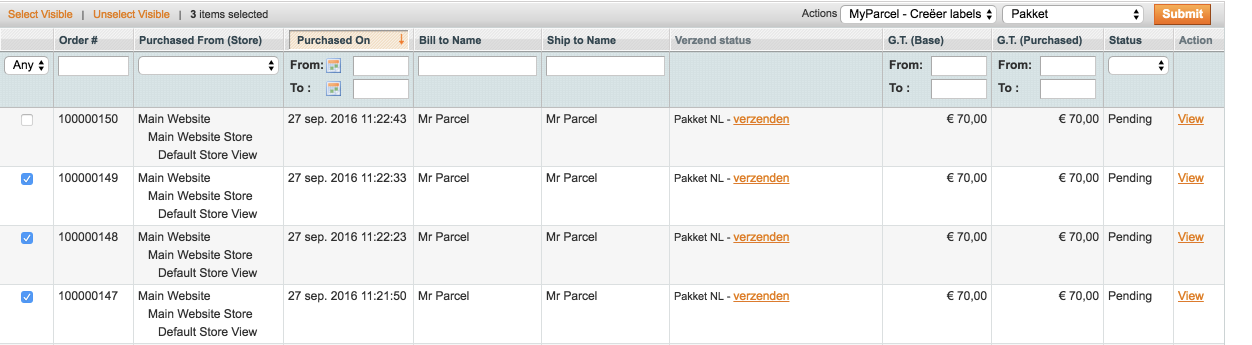
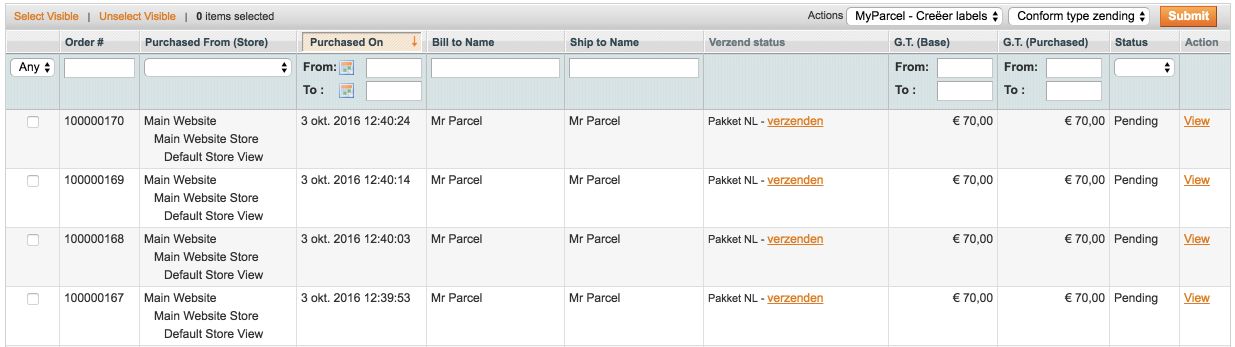
Add print screens, edit tekst

diff --git a/1_7.html b/1_7.html
@@ -22,7 +22,7 @@
         Installatie- gebruikershandleiding
     </h1>
     <h2 class="project-tagline">
-        Magento MyParcel plug-in 1.6.x
+        Magento MyParcel plug-in 1.7.x
     </h2>
     <a target="_blank" class="btn" href="https://github.com/myparcelnl/Magento1">GitHub</a>
     <a target="_blank" class="btn" href="https://github.com/myparcelnl/magento1/releases">Alle updates</a>
@@ -190,7 +190,7 @@
             Onder het kopje 'Versie & Support' kun je zien welke versie jij van de plugin gebruikt.
 
         </p>
-        <img src="media1_7/image001.png">
+        <img src="media1_7/image009.png">
         <p>Verder zie je 2 tabbladen om uit te kiezen. Een tabblad voor de Algemene instellingen en een tabblad voor de checkout instellingen.</p>
 
         <h2 id="2_1">2.1 Algemene instellingen</h2>
@@ -204,7 +204,7 @@
 
         <h2 id="2_2">2.2 Hoofd Instellingen</h2>
             <p> Bij dit kopje kun je alle instellingen voor het gebruiken van de MyParcel Extensie invullen.</p>
-                <img src="media1_7/image003.png">
+                <img src="media1_7/image011.png">
 
         <h3 id="2_2_1">2.2.1 Activeer MyParcel extensie</h3>
         <p>
@@ -308,13 +308,15 @@
 
         <h4>Douane goederen HS code</h4>
         <p>
-            Vul in het veld <span class="nice">Douane goederen HS code</span> de gewenste HS code in.<br>
+            Vul in het veld <span class="nice">Douane goederen HS code</span> de gewenste HS code in.<br><br>
 
             Je kunt de codes vinden op deze link: <a href="http://gebruikstarief.douane.nl" target="_blank">http://gebruikstarief.douane.nl</a><br>
-            Let op: de HS code moet exact vier cijfers zijn.
+            Let op: de HS code moet exact vier cijfers zijn.<br>
+            <br>
 
+            Het is ook mogelijk om per productcategorie een eigen HS code mee te geven. Deze optie kun je invullen onderaan de pagina van een gewenste categorie. Ga naar  <span class="nice">Catalogus -> Beheer categorieën </span>.
         </p>
-
+            <img src="media1_7/image010.png">
         <h2 id="2_4">2.4 Versturingsmethodes configuratie</h2>
         <p>
 
@@ -419,8 +421,7 @@
         <ol>
             <li>Selecteer de zendingen die je wilt exporteren naar MyParcel</li>
             <li>Kies in de actie balk <span class="nice">MyParcel - creëer labels</span></li>
-            <li>Klik vervolgens op de juiste pakket soort en vervolgens
-                op <span class="nice">Verstuur</span>
+            <li>Kies voor je pakkettype (indien dit standaard moet zijn, kies dan voor <span class="nice">conform type zending</span>) en vervolgens kun je klikken op <span class="nice">verstuur</span>
             </li>
             <img src="media1_7/batch1.png">
             <li>Kies voor de juiste printpositie, indien je voor A4 hebt gekozen</li>
@@ -554,44 +555,8 @@
             <li>Klik rechts bovenin op opslaan.</li>
         </ol>
 
-        <h2 id="6_4">6.4 Waarom komt mijn label niet door naar MyParcel met een andere verzendmethode?</h2>
-        <p>
-            Vanaf versie 1.3 van de MyParcel Magento extensie kun je andere verzendmethode aan de MyParcel extensie koppelen. Dit kan handig zijn als je bijvoorbeeld een verzendkosten extensie gebruikt.<br>
-            Dit kun je instellen via <span class="nice">Systeem > Configuratie > MyParcel</span>.
-
-
-        </p>
-
-        <h2 id="6_5">6.5 API-key van MyParcel plugin verandert na inloggen in Magento naar de inloggegevens.</h2>
-        <p>
-            Je gebruikt waarschijnlijk Safari. Als je bijvoorbeeld Chrome als browser zou gebruiken gaat alles goed. Dit heeft te maken met dat safari wachtwoorden verkeerd opslaat.
-        </p>
-
-        <h2 id="6_6">6.6 Mijn label kan niet aangemaakt worden.</h2>
-        <p>
-            <b>Probleem:</b><br>
-            Label kan niet worden aangemaakt
-        </p>
-        <ul>
-            <li>Er komt wel een popup waar je kan kiezen op welke plek geprint moet worden, maar verder gebeurt er
-                niks
-            </li>
-            <li>Je gebruikt meerdere verzendmethodes (inc. Flat Rate, Table Rates en Free Shipping)</li>
-        </ul>
-        <p>
-            <b>Oplossing:</b><br>
-            Bij instellingen van MyParcel moeten alle verzendmethodes aangevinkt zijn die worden gebruikt. Dit doe je bij <span class="nice">Systeem → Verzendmethodes</span>.
-
-        </p>
-
-        <h2 id="6_7">6.7 Op het label komt geen toevoeging van het huisnummer.</h2>
-        <p>
-            Toevoeging van huisnummer staat in een aparte regel. Dit komt niet mee op het label. Update naar een versie na 1.5.x<br>
-            Ga naar <span class="nice">Systeem → Instellingen → MyParcel → Standaard verzend instellingen</span>. Zet <span class="nice">Deel straatnaam velden op</span> op <span class="nice">nee</span>.
-            <br>
-            <br>
-            <img src="media1_7/image009.png" alt="Op het label komt geen toevoeging van het huisnummer.">
-        </p>
+        
+        
     </div>
 
     <footer class="site-footer">
